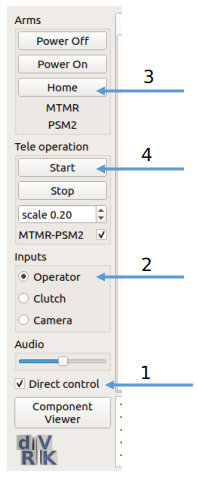
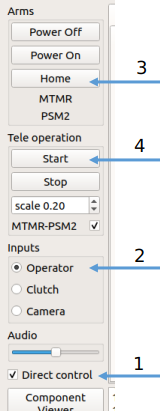
updated readme

Changed region(s): [[0.0312, 0.0, 1.0, 1.0]]

diff --git a/README.md b/README.md
@@ -15,6 +15,13 @@ If you find our work relevant, please cite
   year={2020}
 }
 ```
+## Table of Content
+- [System Requirment](https://github.com/mli0603/PolygonMeshVirtualFixture#system-requirement)
+- [Dependencies](https://github.com/mli0603/PolygonMeshVirtualFixture#dependencies)
+- [Compilation](https://github.com/mli0603/PolygonMeshVirtualFixture#compilation)
+- [To run the demo](https://github.com/mli0603/PolygonMeshVirtualFixture#to-run-the-demo)
+- [Log](https://github.com/mli0603/PolygonMeshVirtualFixture#log)
+- [Acknoledgement](https://github.com/mli0603/PolygonMeshVirtualFixture#acknowledgement)
 ## System Requirement
 We have tested the code functionality on **Ubuntu 16.04 and 18.04**.
 
@@ -80,13 +87,16 @@ This interactive demo runs a simple teleoperation "robot" where the robot positi
 - Start roscore by `roscore`.
 - Start the simulated console by `rosrun dvrk_robot dvrk_console_json -j share/console-MTMR_KIN_SIMULATED-PSM2Derived_KIN_SIMULATED-TeleopDerived.json.` Optionally, you can visualize the PSM by `roslaunch dvrk_robot dvrk_arm_rviz_only.launch arm:=PSM2.`
 - Inform teleoperation logic that PSM is simulated by `rostopic pub -1 /PSM2/set_simulation std_msgs/Bool "data: true"`
-- In the console, first setup teleoperation 
-    1. Check `Direct Control`
-    2. Enable `Operator`
-    3. `Home` the robot
-    4. `Start` teleoperation.
 
-       ![](media/dvrk_console_home.png)
+<img src="media/dvrk_console_home.png" align="right" width="108" height="274">
+
+- In the console, first setup teleoperation 
+
+  1. Check `Direct Control`
+  2. Enable `Operator`
+  3. `Home` the robot
+  4. `Start` teleoperation.
+</br></br>
   
 - Move the second joint of MTM such that its value is 20. This step moves the tip above the skull.
   - Enable `Direct Control` in `MTMR` tab.
